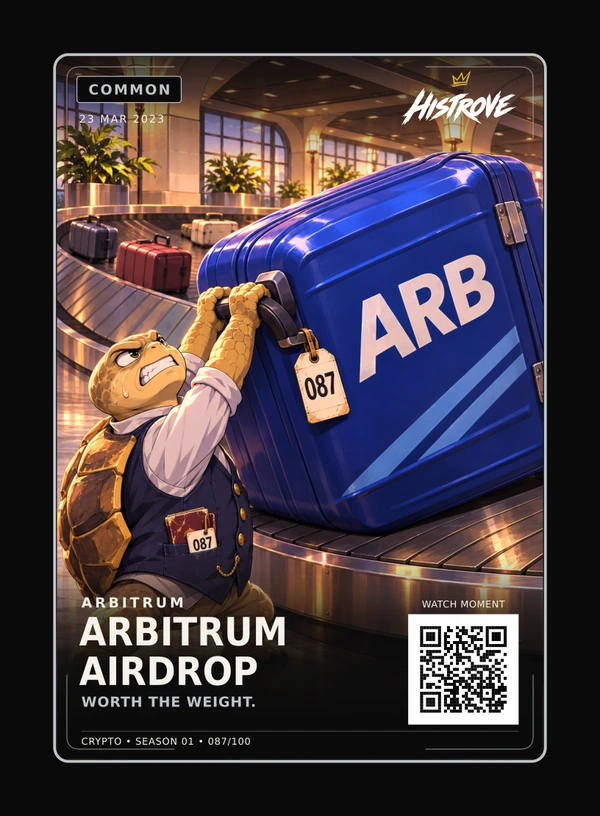
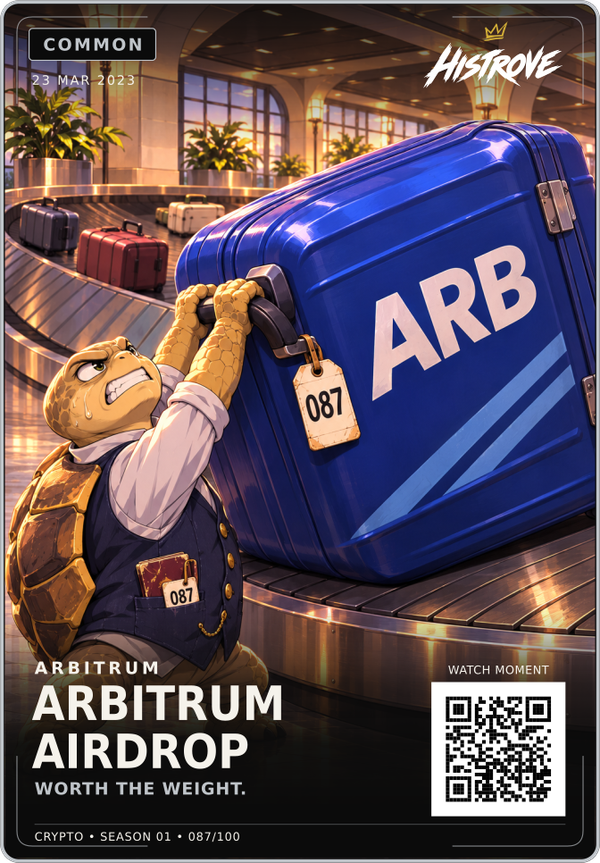
Preview five approved rarity cards and transparent tortoise border crop

diff --git a/site/app/page.js b/site/app/page.js
@@ -12,8 +12,8 @@ import AboutHistrove from './components/AboutHistrove';
 import PackConfiguration from './components/PackConfiguration';
 import SeasonTwoTeaser from './components/SeasonTwoTeaser';
 // Preview-only approved 087 card; the separate full card release remains independent.
-const archiveCards = collectionCards.map(c => c.slug === 'the-arbitrum-airdrop' ? {...c, title:'ARBITRUM AIRDROP', phrase:'WORTH THE WEIGHT.', media:{...c.media,image:{src:'/preview-087-approved.webp',width:600,height:816}}} : c);
-const featured = ['the-arbitrum-airdrop','slush-pool','the-overflow','the-first-transfer'].map(slug=>archiveCards.find(c=>c.slug===slug));
+const archiveCards = collectionCards.map(c => c.slug === 'the-arbitrum-airdrop' ? {...c, title:'ARBITRUM AIRDROP', phrase:'WORTH THE WEIGHT.', media:{...c.media,image:{src:'/preview-087-approved.webp',width:600,height:863}}} : c);
+const featured = ['the-arbitrum-airdrop','slush-pool','three-arrows-falls','cryptokitties','the-first-transfer'].map(slug=>archiveCards.find(c=>c.slug===slug));
 export default function Home(){
  useEffect(()=>{if(/^#(?:year-\d{4}|moment-[a-z0-9-]+)$/.test(window.location.hash))window.location.replace('/timeline'+window.location.search+window.location.hash);},[]);
  const [selected,setSelected]=useState(null),[entryTab,setEntryTab]=useState('story');
@@ -26,7 +26,7 @@ export default function Home(){
  const pizza=archiveCards.find(c=>c.slug==='pizza-day');
  const discoveryCard=archiveCards.find(c=>c.slug==='cryptokitties');
  return <div id="top" className="product-home"><a className="skip-link" href="#collection">Skip to the collection</a><Header/><main>
- <section className="hero" aria-labelledby="hero-title"><div className="hero-copy"><div className="eyebrow"><span className="status-dot"/> CRYPTO / SEASON ONE</div><h1 id="hero-title">Physical cards.<br/><span>Crypto history.</span></h1><p className="home-tagline">History Worth Holding</p><p>Crypto’s defining moments, reimagined as illustrated trading cards. Collect the cards. Find the hidden details. Discover the stories behind them.</p><div className="hero-actions"><Link href="/shop" className="gold-button shop-spotlight hero-shop-action"><span className="shop-glint" aria-hidden="true"/>Explore the shop <Arrow/></Link><a href="#collection" className="hero-collection-link">Discover the collection <Arrow direction="down"/></a><Link href="/timeline" className="hero-timeline-link">Explore the timeline <Arrow/></Link></div><div className="hero-note"><span>100-CARD COLLECTION IN THE MAKING</span><span>{archiveCards.length} STORIES TO EXPLORE</span></div></div><div className="hero-gallery" aria-label="Selected cards from Crypto Season One"><span className="gallery-coordinate top-coordinate">FOUR RARITIES. A WORLD OF STORIES.</span><div className="hero-card-stage" tabIndex={0} aria-label="Featured cards; swipe horizontally on small screens"><div className="hero-orbit"/>{featured.map((c,i)=><button key={c.slug} className={'hero-card hero-card-'+i} onClick={e=>openCard(c,false,e.currentTarget)} aria-label={'Explore '+titleCase(c.title)}><Image src={c.media.image.src} width={c.media.image.width} height={c.media.image.height} alt={titleCase(c.title)} sizes="(max-width:760px) 180px, 225px" priority/></button>)}</div><span className="gallery-coordinate bottom-coordinate">COMMON · UNCOMMON · RARE · LEGENDARY</span><span className="hero-gallery-note">Select a card to explore its story <Arrow/></span></div></section>
+ <section className="hero" aria-labelledby="hero-title"><div className="hero-copy"><div className="eyebrow"><span className="status-dot"/> CRYPTO / SEASON ONE</div><h1 id="hero-title">Physical cards.<br/><span>Crypto history.</span></h1><p className="home-tagline">History Worth Holding</p><p>Crypto’s defining moments, reimagined as illustrated trading cards. Collect the cards. Find the hidden details. Discover the stories behind them.</p><div className="hero-actions"><Link href="/shop" className="gold-button shop-spotlight hero-shop-action"><span className="shop-glint" aria-hidden="true"/>Explore the shop <Arrow/></Link><a href="#collection" className="hero-collection-link">Discover the collection <Arrow direction="down"/></a><Link href="/timeline" className="hero-timeline-link">Explore the timeline <Arrow/></Link></div><div className="hero-note"><span>100-CARD COLLECTION IN THE MAKING</span><span>{archiveCards.length} STORIES TO EXPLORE</span></div></div><div className="hero-gallery" aria-label="Selected cards from Crypto Season One"><span className="gallery-coordinate top-coordinate">FIVE RARITIES. A WORLD OF STORIES.</span><div className="hero-card-stage" tabIndex={0} aria-label="Featured cards; swipe horizontally on small screens"><div className="hero-orbit"/>{featured.map((c,i)=><button key={c.slug} className={'hero-card hero-card-'+i} onClick={e=>openCard(c,false,e.currentTarget)} aria-label={'Explore '+titleCase(c.title)}><Image src={c.media.image.src} width={c.media.image.width} height={c.media.image.height} alt={titleCase(c.title)} sizes="(max-width:760px) 180px, 225px" priority/></button>)}</div><span className="gallery-coordinate bottom-coordinate">COMMON · UNCOMMON · RARE · EPIC · LEGENDARY</span><span className="hero-gallery-note">Select a card to explore its story <Arrow/></span></div></section>
  <section className="family-preview" aria-labelledby="family-heading"><div className="family-heading"><h2 id="family-heading" className="label gold">Familiar faces. Unforgettable stories.</h2><span className="family-swipe" id="family-swipe">Swipe to meet the whole family →</span></div><div className="family-panorama" role="region" aria-label="HISTROVE family portrait, horizontally scrollable on small screens" tabIndex={0}><img src="/family.png" alt="Thirteen HISTROVE characters: tortoise, fast-food man, Broccoli, three mining pigs, two mice, a ceremony robot, green octopus, bull, professor and punk, beneath the crowned HISTROVE wordmark." width="2400" height="600" loading="lazy"/></div><p className="family-caption">100 cards. 100 stories. Just one more tweak.</p></section>
  <ComingSoon/>
  <section className="home-products" id="collection" aria-labelledby="collection-heading"><div className="home-section-heading"><div><span className="label gold">THE PHYSICAL COLLECTION</span><h2 id="collection-heading">Made to collect.<br/><span>Made to discover.</span></h2></div><p>A pack to open. A book to get lost in.<br/>The history continues beyond the card.</p></div><div className="home-product-grid">

diff --git a/site/app/globals.css b/site/app/globals.css
@@ -203,3 +203,6 @@
 @media(max-width:760px){.product-home .hero{grid-template-columns:minmax(0,1fr);gap:24px;padding-top:28px;padding-bottom:28px}.product-home .hero h1{font-size:clamp(37px,8.2vw,52px);margin-top:16px}.product-home .hero-gallery{max-width:none;gap:10px}.product-home .hero-card-stage{display:flex;gap:16px;overflow-x:auto;scroll-snap-type:x proximity;padding:12px 6px 18px;aspect-ratio:auto;scrollbar-color:var(--gold) #222}.product-home .hero-card-stage .hero-orbit{display:none}.product-home .hero-card-stage .hero-card{position:relative;inset:auto;width:180px;min-width:180px;max-width:none;flex:0 0 180px;transform:none;scroll-snap-align:start}.product-home .hero-card-stage .hero-card:hover,.product-home .hero-card-stage .hero-card:focus-visible{transform:none}.product-home .hero-gallery .gallery-coordinate,.product-home .hero-gallery .hero-gallery-note{text-align:left;justify-content:flex-start}.product-home .family-preview{margin-bottom:40px}.family-panorama img{aspect-ratio:4/1}}
 
 .product-home .coming-soon{padding-top:32px;padding-bottom:38px}.first-print-rarities-after-signup{margin-top:30px;padding-top:24px;border-top:1px solid var(--line)}
+
+/* Five approved featured cards, ascending rarity, no Mythic. */
+@media(min-width:761px){.product-home .hero-gallery{max-width:800px}.product-home .hero-card-stage{aspect-ratio:1.95}.product-home .hero-card{width:26%;max-width:215px}.product-home .hero-card-0{left:2%;top:13%;transform:rotate(-12deg);z-index:1}.product-home .hero-card-1{left:20%;top:5%;transform:rotate(-6deg);z-index:2}.product-home .hero-card-2{left:38%;top:2%;transform:rotate(0deg);z-index:3}.product-home .hero-card-3{left:56%;top:5%;transform:rotate(6deg);z-index:4}.product-home .hero-card-4{left:74%;top:13%;transform:rotate(12deg);z-index:5}.product-home .hero-card:hover,.product-home .hero-card:focus-visible{transform:translateY(-8px);z-index:7}}
